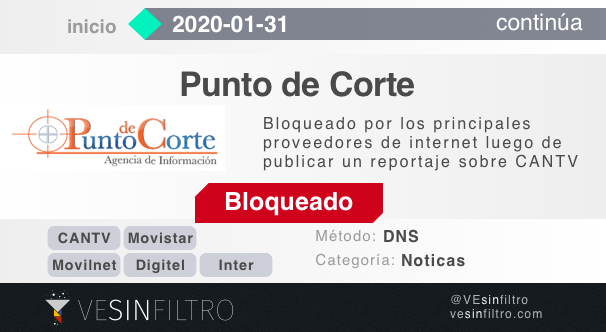
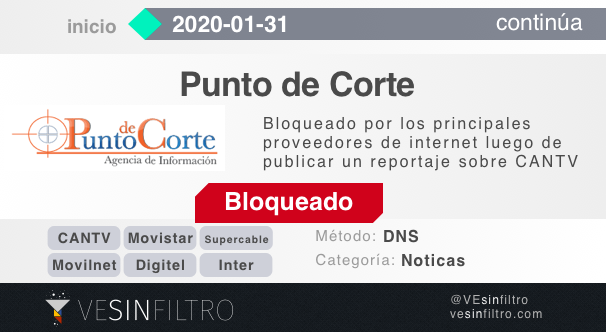
update 2020-01-05 2020-01-31

Changed region(s): [[0.3267, 0.6627, 0.4752, 0.753]]

diff --git a/_noticias/2020-01-05-alerta.md b/_noticias/2020-01-05-alerta.md
@@ -1,0 +1,33 @@
+---
+layout: post
+title:  "Bloquean redes sociales durante elección de directiva de la AN"
+small:   "Bloquean redes sociales durante elección de directiva de la AN"
+excerpt: ""
+permalink: /noticias/alerta-2020-01-05/
+date:   2020-01-05 13:20:00 -0400
+categories: bloqueos
+image: /res/post_img/2020-01-05.png
+---
+
+<!-- ![Cover image](/res/post_img/2019-11-16-b.png) -->
+
+El 2020-01-05 se bloqueó el acceso a algunas de las principales redes sociales y plataformas de streaming de video: Twitter, YouTube, Facebook e Instagram por aproximadamente dos horas y media en el proveedor de internet del estado CANTV, mientras diputados a la Asamblea Nacional y miembros de la prensa trataban de acercarse al Palacio Federal Legislativo para la elección de la nueva directiva del parlamento nacional.
+
+<blockquote class="twitter-tweet" data-lang="en"><p lang="es" dir="ltr"><a href="https://twitter.com/hashtag/ALERTA?src=hash&amp;ref_src=twsrc%5Etfw">#ALERTA</a> <a href="https://twitter.com/hashtag/5ene?src=hash&amp;ref_src=twsrc%5Etfw">#5ene</a>: <br>Confirmado <a href="https://twitter.com/hashtag/bloqueos?src=hash&amp;ref_src=twsrc%5Etfw">#bloqueos</a> de <a href="https://twitter.com/hashtag/Youtube?src=hash&amp;ref_src=twsrc%5Etfw">#Youtube</a>, <a href="https://twitter.com/hashtag/twitter?src=hash&amp;ref_src=twsrc%5Etfw">#twitter</a>, <a href="https://twitter.com/hashtag/Facebook?src=hash&amp;ref_src=twsrc%5Etfw">#Facebook</a> e <a href="https://twitter.com/hashtag/Instagram?src=hash&amp;ref_src=twsrc%5Etfw">#Instagram</a> en <a href="https://twitter.com/hashtag/Venezuela?src=hash&amp;ref_src=twsrc%5Etfw">#Venezuela</a><br><br>El bloqueo de <a href="https://twitter.com/hashtag/CANTV?src=hash&amp;ref_src=twsrc%5Etfw">#CANTV</a> (ISP del estado) funciona mediante <a href="https://twitter.com/hashtag/FiltradoSNI?src=hash&amp;ref_src=twsrc%5Etfw">#FiltradoSNI</a>, y no tiene una tasa de bloqueo de 100% <a href="https://twitter.com/hashtag/internetVE?src=hash&amp;ref_src=twsrc%5Etfw">#internetVE</a> <a href="https://twitter.com/hashtag/keepItOn?src=hash&amp;ref_src=twsrc%5Etfw">#keepItOn</a> <a href="https://t.co/0oyo5pmqRk">pic.twitter.com/0oyo5pmqRk</a></p>&mdash; VE sin Filtro (@vesinfiltro) <a href="https://twitter.com/vesinfiltro/status/1213809726359781376?ref_src=twsrc%5Etfw">January 5, 2020</a></blockquote> <script async src="https://platform.twitter.com/widgets.js" charset="utf-8"></script>
+
+El control de la nueva directiva de la AN es de crítica importancia para ambos bandos políticos, pues la oposición y muchos países de Europa, Latinoamérica y América del Norte reconocen al presidente de la Asamblea Nacional como Presidente Encargado de Venezuela, en base a la Constitución al no reconocer la última elección presidencial que le dio la (disputada) reelección a Nicolas Maduro.
+
+
+## Recomendaciones a usuarios de internet en Venezuela
+
+Recomendamos el uso de herramientas confiables de circunvención de
+bloqueos en internet por los usuarios en Venezuela. Recomendamos tener instaladas varias de las
+siguientes herramientas ante la posibilidad de que alguna sea bloqueada.
+
+-   Psiphon [https://psiphon.ca](https://psiphon.ca)
+
+-   Lantern [https://getlantern.org](https://getlantern.org)
+
+-   Tor Browser [https://torproject.org](https://torproject.org)
+
+    ![](/res/img/tecnicas_evadir_bloqueos.png)

diff --git a/_noticias/2020-01-31-Bloqueado_Punto_de_Corte.md b/_noticias/2020-01-31-Bloqueado_Punto_de_Corte.md
@@ -14,13 +14,22 @@ Ha sido bloqueado el portal de noticias [Punto de Corte](https://puntodecorte.co
 
 ![Cover image](/res/post_img/2020-01-31.png)
 
-Este bloqueo opera mediante un Bloqueo por DNS, acatado por todos los principales proveedores de internet de Venezuela: CANTV, Movistar, Digitel,  Inter y Movilnet (Empresa estatal de telefonía móvil en proceso de separación de CANTV). Se espera que este bloqueo persista indefinidamente como en el caso de los más de 20 otro medios bloqueados en Venezuela.
+Este bloqueo opera mediante un Bloqueo por DNS, acatado por todos los principales proveedores de internet de Venezuela: CANTV, Movistar, Digitel,  Inter, Supercable, Movilnet (Empresa estatal de telefonía móvil en proceso de separación de CANTV). Se espera que este bloqueo persista indefinidamente como en el caso de los más de 20 otro medios bloqueados en Venezuela.
 
 La instalación mostrada en el reportaje, [hospedado en Youtube](https://youtu.be/rhKbuPHbl8A), sufre múltiples problemas en los equipos de redes, sistemas de refrigeración, falta de insumos, vehículos operativos y hasta  en iluminación de espacios de trabajo claves. Condiciones similares a las mostradas en el reportaje se repiten en muchas instalaciones de CANTV.
 
 CANTV es una empresa del estado que sirve a la gran mayoría de los usuarios de internet de Venezuela con una disponibilidad del servicio comparativamente baja ante frecuentes fallas y lentas velocidades de conexión. Comunidades enteras sufren de fallas en el servicio que no se han reparado en meses o años.
 
 <iframe width="640" height="360" src="https://www.youtube.com/embed/rhKbuPHbl8A" frameborder="0" allow="accelerometer; autoplay; encrypted-media; gyroscope; picture-in-picture" allowfullscreen></iframe>
+
+## Cómo funciona el bloqueo por DNS
+
+Nuestros equipos y los servidores en internet se conectan entre ellos usando direcciones IP, que son una serie de números, parcialmente análogos a un número de teléfono, no a travez de los nombres de domino que usamos diariamente como vesinfiltro.com.
+
+Para poder conectarse a una página web, el equipo traduce esos nombres en direcciones IP gracias a la ayuda de un Servidor DNS (Sistema de Nombre de Dominos, por sus siglas en inglés), típicamente provisto por tu proveedor del servicio de internet.
+
+En los bloqueos DNS, el servidor DNS ha sido configurado para no responder correctamente cual es la dirección IP solicitada, evitando que neustros equipos puedan conectarse con el destino deseado.
+
 
 ## Recomendaciones a usuarios de internet en Venezuela
 
